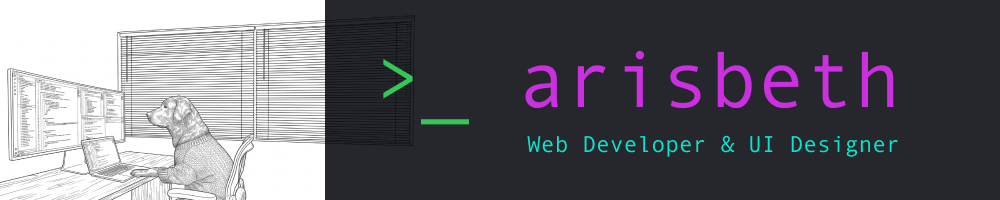
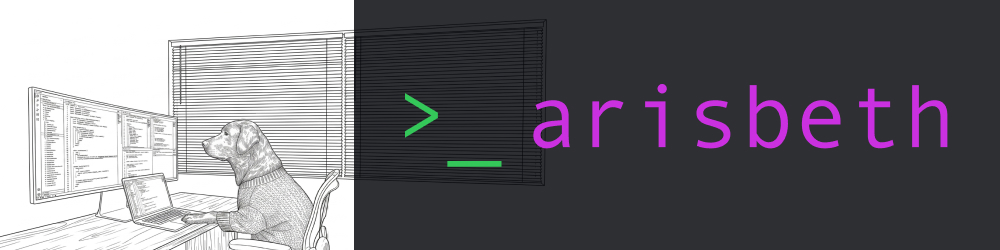
update

diff --git a/README.md b/README.md
@@ -1,7 +1,7 @@
 <div align="center">
   <img src="/src/lib/assets/banner.jpg" alt="Banner" width="100%">
   
-  <h1>🌎🌐 Hello, World! I'm Aris</h1>
+  <h1>Hello 🌎 I'm Arisbeth</h1>
   <h3>Frontend Web Developer | UI/UX Designer</h3>
   
   <p>I'm dedicated to building efficient, accessible, and user-centric digital experiences.</p>